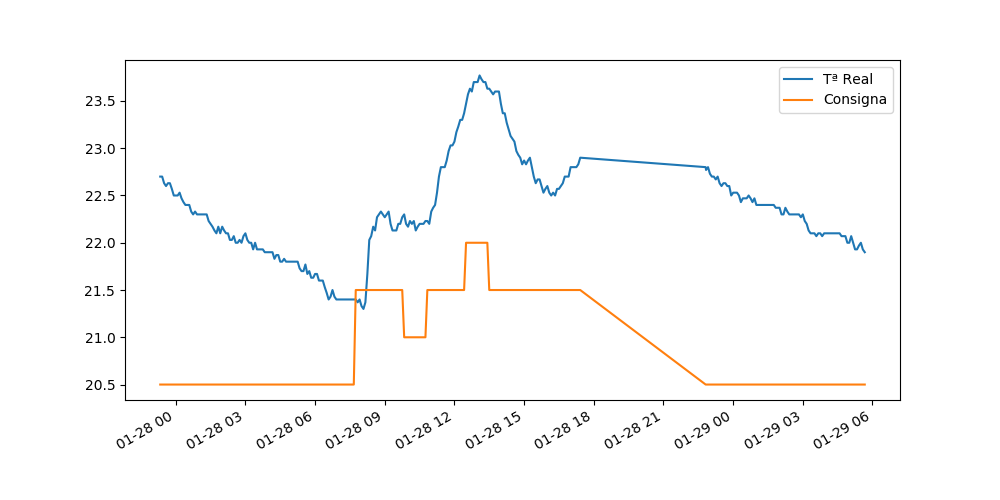
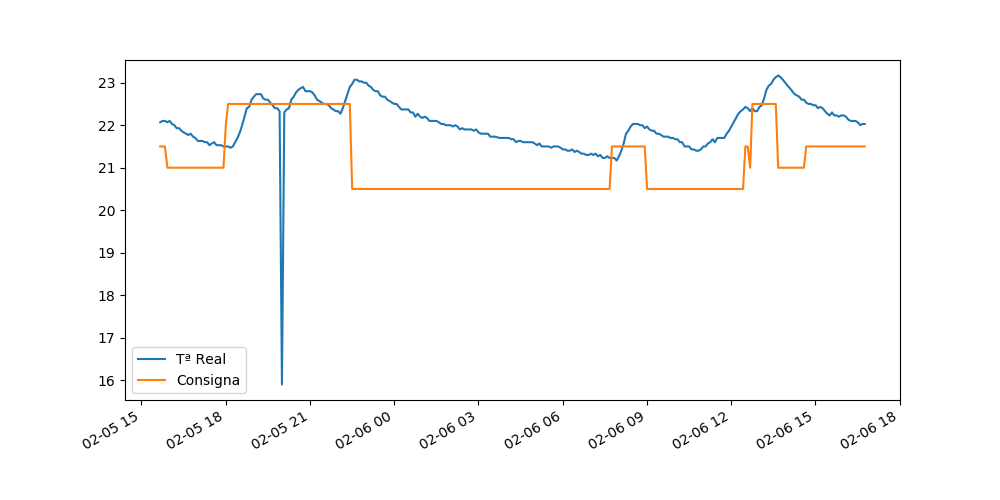
Update

diff --git a/python/termoflask/etc/sqlite.py b/python/termoflask/etc/sqlite.py
@@ -4,7 +4,7 @@
 # Script Name:  sqlite.py
 # Description:  Clase para guardar los datos en una basede datos sqlite
 # Args:
-# Creation/Update: 202101312/20210112
+# Creation/Update: 202101312/20210206
 # Author: www.sherblog.pro                                                
 # Email: [email redacted]                                           
 ########################################################################
@@ -137,10 +137,10 @@ class Sqlite:
         
         for registro in registros:
 
-            if i > 0 and registro[1] == "on":
+            if i > 0 and registros[i-1][1] == "on":
                 hora = datetime.strptime(registro[0], '%Y-%m-%d %H:%M:%S')
                 hora_ant = datetime.strptime(registros[i-1][0], '%Y-%m-%d %H:%M:%S')
-                total_min += (hora - hora_ant).seconds/60
+                total_min += (hora - hora_ant).seconds/60            
 
             i+=1
         

diff --git a/python/termoflask/prueba.py b/python/termoflask/prueba.py
@@ -14,14 +14,11 @@ logging.basicConfig(format='%(asctime)s %(message)s', datefmt='%Y%m%d %H:%M', le
 
 datos_sqlite = Sqlite("termostato.db")
 
-#print(datos_sqlite.minutos_dia())
+datos_sqlite.minutos_dia("2021-01-23")
 
 #datos_sqlite.parametros()
 
 #datos_sqlite.calculo_minutos()
-
-exterior = Aemet2("9434P")
-print(exterior.temp_media)
 
 
 

diff --git a/python/termoflask/etc/consigna.py b/python/termoflask/etc/consigna.py
@@ -12,7 +12,7 @@
 #       - Lista de temperaturas
 #       - Lista de personas
 #       - Decremento de Tª con casa vacía
-# Creation/Update: 20201230/20201230
+# Creation/Update: 20201230/20210206
 # Author: www.sherblog.pro                                                
 # Email: [email redacted]                                           
 ########################################################################
@@ -34,7 +34,7 @@ class Consigna:
 
         def modo_manual():
             minutos_manual = round((ahora - hora_manual).seconds/60)
-            return True if minutos_manual < min_manual else False
+            return True if minutos_manual < min_manual and (ahora - hora_manual).days <1 else False
         
         def casa_vacia():
             for usuario in personas: